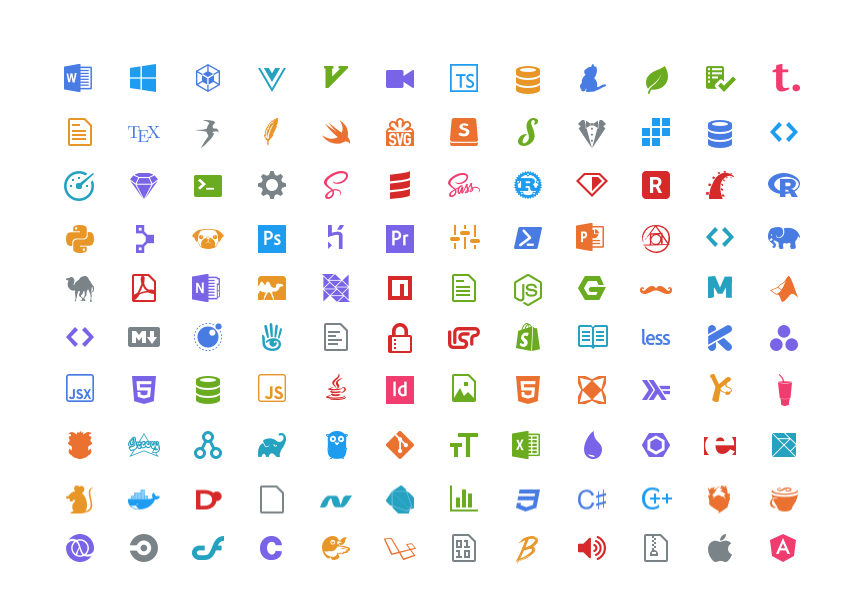
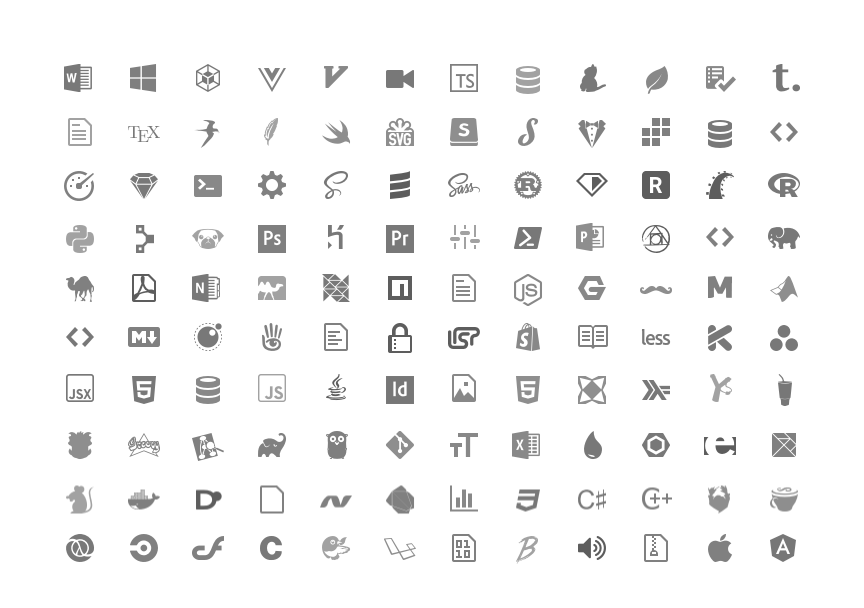
mono variant

diff --git a/README.md b/README.md
@@ -1,9 +1,9 @@
-# FileIcons
-Colored file icons for Sublime Text. [Also available in greyscale](https://packagecontrol.io/packages/FileIcons%20Mono).
+# FileIcons Mono
+Monochrome file icons for Sublime Text.
 
 Adds specific, colored icons for most file types for the sidebar in Sublime Text 3. Supports both the Default and Adaptive themes.
 
-<img width="432" src="https://raw.githubusercontent.com/braver/FileIcons/master/icons.png"> 
+<img width="432" src="https://raw.githubusercontent.com/braver/FileIcons/mono/icons.png"> 
 
 Inspired by [A File Icon](https://packagecontrol.io/packages/A%20File%20Icon), but simpler:
 
@@ -20,18 +20,18 @@ The following changes are made to Adaptive/Default.sublime-theme. You can overri
   {
     "class": "icon_file_type",
     "layer0.tint": [255, 255, 255],
-    "layer0.opacity": 0.75,
+    "layer0.opacity": 0.6,
     "content_margin": [8, 8]
   },
   {
     "class": "icon_file_type",
     "parents": [{"class": "tree_row", "attributes": ["hover"]}],
-    "layer0.opacity": 0.5
+    "layer0.opacity": 0.75
   },
   {
     "class": "icon_file_type",
     "parents": [{"class": "tree_row", "attributes": ["selected"]}],
-    "layer0.opacity": 1.0
+    "layer0.opacity": 0.9
   }
 ]
 ```
